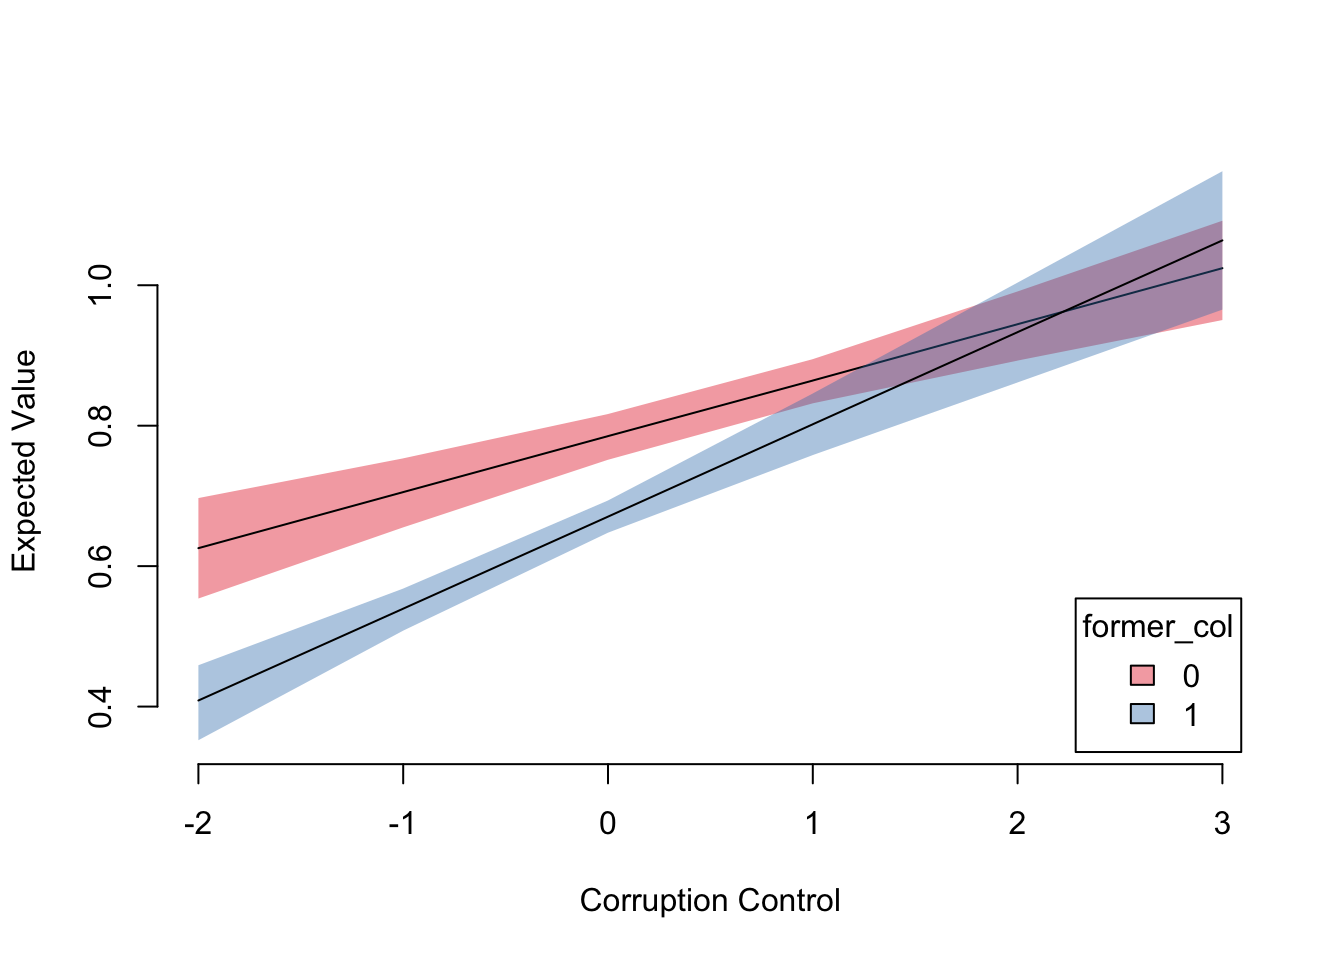
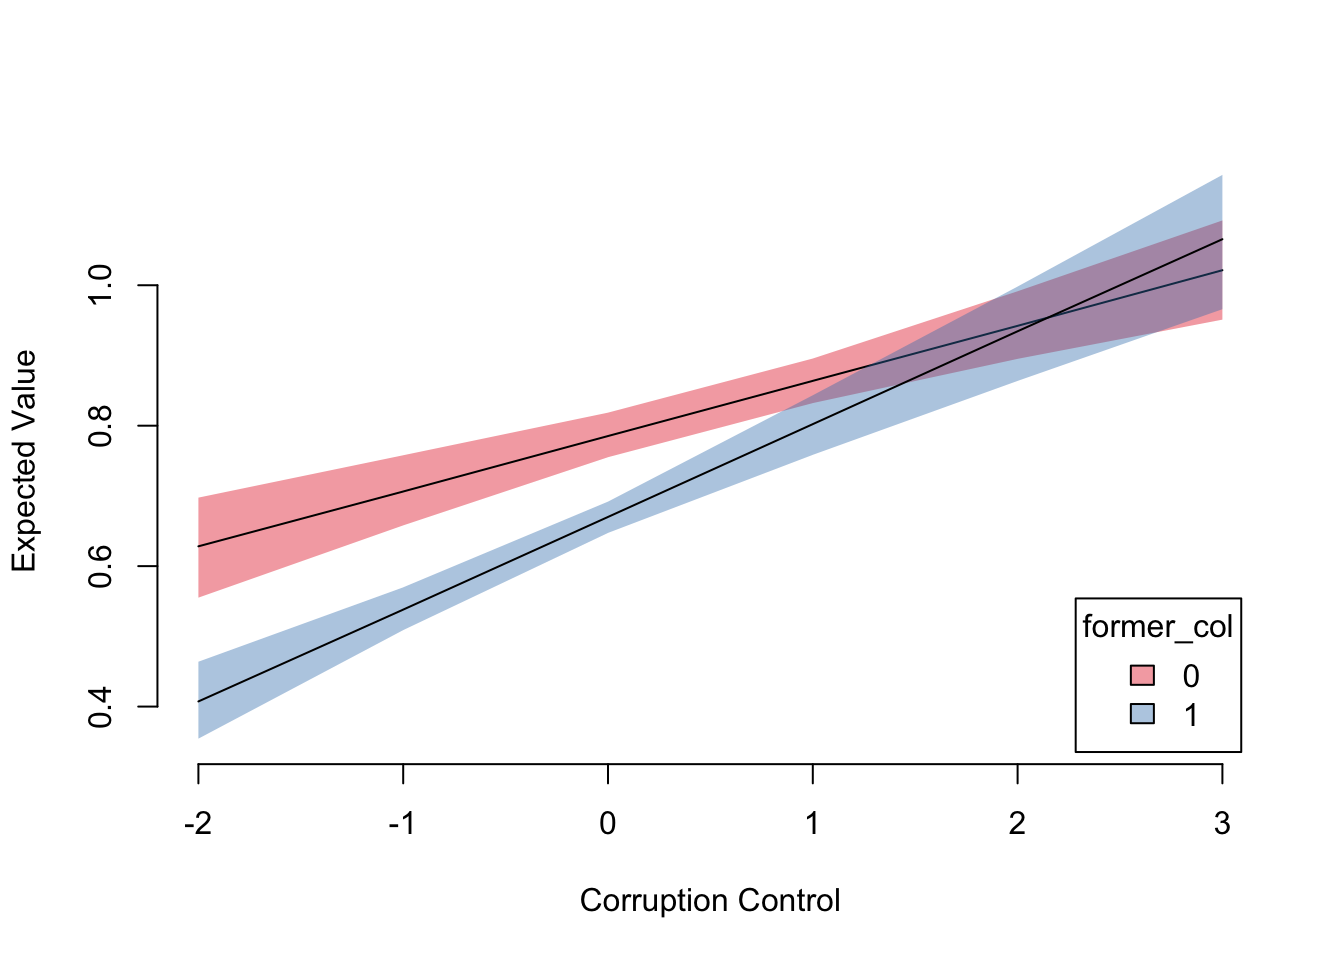
fixing first differences

diff --git a/docs/articles/interaction_terms.html b/docs/articles/interaction_terms.html
@@ -116,8 +116,8 @@ sim &lt;-<span class="st"> </span><span class="kw"><a href="../reference/regsim.
 ## former_col           0
 ## wbgi_cce:former_col  0
 ## 
-##        mean         sd     2.5%       50%     97.5%
-## 1 0.6259175 0.03716556 0.553878 0.6255945 0.6969422
+##        mean         sd      2.5%       50%     97.5%
+## 1 0.6282778 0.03652796 0.5551203 0.6282089 0.6975746
 ## ------------------------------------------------
 ## 
 ##                      2
@@ -126,7 +126,7 @@ sim &lt;-<span class="st"> </span><span class="kw"><a href="../reference/regsim.
 ## wbgi_cce:former_col -2
 ## 
 ##        mean         sd      2.5%       50%     97.5%
-## 2 0.4074692 0.02779368 0.3521133 0.4086631 0.4588801
+## 2 0.4071461 0.02803135 0.3543358 0.4073188 0.4638892
 ## ------------------------------------------------
 ## 
 ##                      3
@@ -134,8 +134,8 @@ sim &lt;-<span class="st"> </span><span class="kw"><a href="../reference/regsim.
 ## former_col           0
 ## wbgi_cce:former_col  0
 ## 
-##        mean         sd      2.5%      50%     97.5%
-## 3 0.7054699 0.02543975 0.6552021 0.705446 0.7535095
+##        mean         sd      2.5%       50%     97.5%
+## 3 0.7069016 0.02516142 0.6580212 0.7062924 0.7579065
 ## ------------------------------------------------
 ## 
 ##                      4
@@ -144,7 +144,7 @@ sim &lt;-<span class="st"> </span><span class="kw"><a href="../reference/regsim.
 ## wbgi_cce:former_col -1
 ## 
 ##        mean         sd      2.5%       50%     97.5%
-## 4 0.5390572 0.01517029 0.5081541 0.5394372 0.5680717
+## 4 0.5386212 0.01534959 0.5088968 0.5380894 0.5698188
 ## ------------------------------------------------
 ## 
 ##                     5
@@ -152,8 +152,8 @@ sim &lt;-<span class="st"> </span><span class="kw"><a href="../reference/regsim.
 ## former_col          0
 ## wbgi_cce:former_col 0
 ## 
-##        mean         sd      2.5%       50%     97.5%
-## 5 0.7850223 0.01660725 0.7514703 0.7851626 0.8166407
+##        mean         sd     2.5%      50%     97.5%
+## 5 0.7855255 0.01682772 0.755129 0.785273 0.8185995
 ## ------------------------------------------------
 ## 
 ##                     6
@@ -161,8 +161,8 @@ sim &lt;-<span class="st"> </span><span class="kw"><a href="../reference/regsim.
 ## former_col          1
 ## wbgi_cce:former_col 0
 ## 
-##        mean         sd      2.5%       50%    97.5%
-## 6 0.6706452 0.01182053 0.6476411 0.6704758 0.693522
+##        mean         sd      2.5%       50%     97.5%
+## 6 0.6700963 0.01151686 0.6473091 0.6700476 0.6918769
 ## ------------------------------------------------
 ## 
 ##                     7
@@ -171,7 +171,7 @@ sim &lt;-<span class="st"> </span><span class="kw"><a href="../reference/regsim.
 ## wbgi_cce:former_col 0
 ## 
 ##        mean         sd      2.5%       50%     97.5%
-## 7 0.8645748 0.01634438 0.8318637 0.8643195 0.8947824
+## 7 0.8641493 0.01686764 0.8321999 0.8638603 0.8956482
 ## ------------------------------------------------
 ## 
 ##                     8
@@ -179,8 +179,8 @@ sim &lt;-<span class="st"> </span><span class="kw"><a href="../reference/regsim.
 ## former_col          1
 ## wbgi_cce:former_col 1
 ## 
-##        mean         sd      2.5%       50%     97.5%
-## 8 0.8022333 0.02238861 0.7581732 0.8020405 0.8458916
+##        mean        sd      2.5%       50%     97.5%
+## 8 0.8015714 0.0218367 0.7585023 0.8022247 0.8433248
 ## ------------------------------------------------
 ## 
 ##                     9
@@ -189,7 +189,7 @@ sim &lt;-<span class="st"> </span><span class="kw"><a href="../reference/regsim.
 ## wbgi_cce:former_col 0
 ## 
 ##        mean         sd      2.5%       50%     97.5%
-## 9 0.9441272 0.02492377 0.8927411 0.9445322 0.9912013
+## 9 0.9427732 0.02524149 0.8951842 0.9421942 0.9914512
 ## ------------------------------------------------
 ## 
 ##                     10
@@ -197,8 +197,8 @@ sim &lt;-<span class="st"> </span><span class="kw"><a href="../reference/regsim.
 ## former_col           1
 ## wbgi_cce:former_col  2
 ## 
-##         mean         sd      2.5%       50%    97.5%
-## 10 0.9338213 0.03625897 0.8616262 0.9332507 1.003791
+##         mean         sd      2.5%       50%     97.5%
+## 10 0.9330465 0.03561208 0.8637635 0.9344501 0.9981563
 ## ------------------------------------------------
 ## 
 ##                     11
@@ -206,8 +206,8 @@ sim &lt;-<span class="st"> </span><span class="kw"><a href="../reference/regsim.
 ## former_col           0
 ## wbgi_cce:former_col  0
 ## 
-##       mean         sd      2.5%      50%    97.5%
-## 11 1.02368 0.03657825 0.9504617 1.024311 1.091892
+##        mean         sd      2.5%      50%    97.5%
+## 11 1.021397 0.03661991 0.9510519 1.021425 1.092316
 ## ------------------------------------------------
 ## 
 ##                     12
@@ -215,8 +215,8 @@ sim &lt;-<span class="st"> </span><span class="kw"><a href="../reference/regsim.
 ## former_col           1
 ## wbgi_cce:former_col  3
 ## 
-##        mean         sd      2.5%      50%    97.5%
-## 12 1.065409 0.05079482 0.9653088 1.063879 1.162429
+##        mean        sd      2.5%      50%    97.5%
+## 12 1.064522 0.0500677 0.9658726 1.065568 1.157215
 ## ------------------------------------------------</code></pre>
 <div class="sourceCode"><pre class="sourceCode r"><code class="sourceCode r"><span class="kw">plot</span>(sim, <span class="op">~</span>wbgi_cce <span class="op">+</span><span class="st"> </span>former_col, <span class="dt">xlab =</span> <span class="st">"Corruption Control"</span>, <span class="dt">ylim =</span> <span class="kw">c</span>(<span class="fl">0.35</span>, <span class="fl">1.15</span>), <span class="dt">bty =</span> <span class="st">"n"</span>)</code></pre></div>
 <p><img src="interaction_terms_files/figure-html/unnamed-chunk-4-1.png" width="672"></p>
